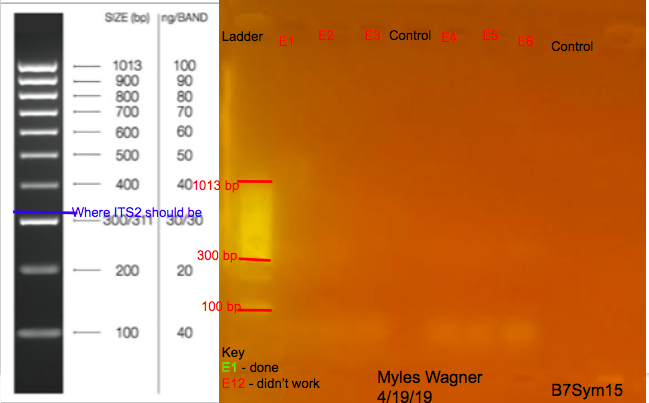
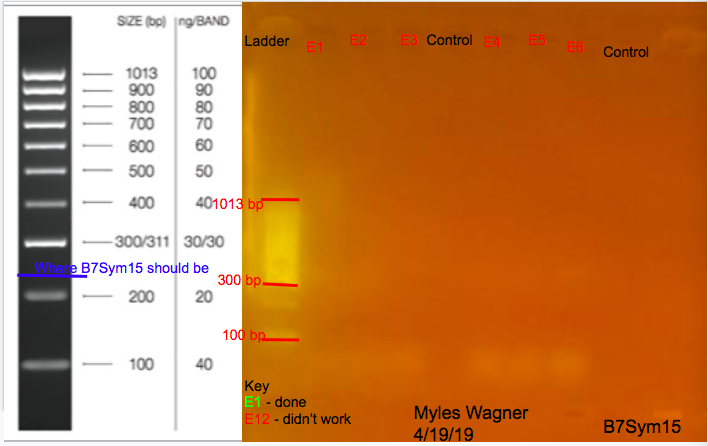
adding posts and images

diff --git a/_posts/2019-5-20-ITS2_PCR15.md b/_posts/2019-5-20-ITS2_PCR15.md
@@ -1,25 +1,24 @@
 ---
 layout: post
-title: "B7Sym15 PCR 4/26/19"
+title: "Starting Costal Fellowship 5/20/19"
 ---
 
-##   E1 E2 E3 E4 E5 E6 (#2)
+## Test ITS2 PCR on: P1 P3 P4 E34 E35 E36
 
 ### Procedure
 
-A new set of B7Sym15 Primers were created to test if this was the reason no DNA showed up in the last test.
+PCR was performed on samples that have not been used before, these samples are from aliquoites of DNA extractions becuase the original coral samples are not available
 
-Samples E1 E2 E3 E4 E5 E6 were used in this PCR (polimerase chain reaction) reaction 
+Samples P1 P3 P4 E34 E35 E36 were used in this PCR (polimerase chain reaction) reaction 
 
-First A Master Mix of water, 2x mytaq mix, B7Sym15 Primer Reverse (concentration: 10 micromolar), B7Sym15 Primer Forward (concentration: 10 micromolar)
-
+First A Master Mix of water, 2x mytaq mix, ITS2 Primer Reverse (concentration: 10 micromolar), ITS2 Primer Forward (concentration: 10 micromolar)
 
 |Component| Volume for 6 reactions(+5% error)|
 |---------|---------------------------|
 |Water| 59.85 micoleters|
 |2x mytaq mix| 78.75 micoleters|
-|B7Sym15 Primer Reverse (concentration: 10 micromolar)| 6.3 micoleters|
-|B7Sym15 Primer Forward (concentration: 10 micromolar)| 6.3 micoleters|
+|ITS2 Primer Reverse (concentration: 10 micromolar)| 6.3 micoleters|
+|ITS2 Primer Forward (concentration: 10 micromolar)| 6.3 micoleters|
 
 24 micoleters of this master mix was added to 6 tubes 
 For the 2 controls 12.5 micoleters water and 12.5 micoleters mytaq mix were added
@@ -29,13 +28,12 @@ and 1 microleter of water was added to two tubes for the controls
 
 The samples were then placed in the thermocycler set to 
 
-
 |Step|Temperature|Duration|cycles|
 |----|-------|--------|-------|
-|1|94°C|2:00|1|
-|2|94°C|0:15|35|
-|3|59°C|0:15|35|
-|4|72°C|0:15|35|
+|1|92°C|3:00|1|
+|2|92°C|0:30|35|
+|3|52°C|0:40|35|
+|4|72°C|0:30|35|
 |5|72°C|5:00|1|
 |6|10°C|hold|-|
 
@@ -45,30 +43,30 @@ these amplified DNA samples were then tested by making a gel
 
 to create the Gel the following steps were taken 
 
-1.5g agarose and 75ml 1X TAE buffer were mixed to make a 2% agarose 75ml gel mix 
+2g agarose and 100ml 1X TAE buffer were mixed to make a 2% agarose 100ml gel mix 
 the mix was microwaved and swirled until there were no flakes 
-then 1 microliters Gelgreen was added
+then 5 microliters Gelred was added
 
 the mix was left to cool for 5 minutes then poured into the gel mold
 the gel was left to harden for 30 minutes 
 
 once hardened enough Used TAE buffer was poured into the gel box to cover the mold
 
-5 microliter aliquots of DNA samples E1 E2 E3 E4 E5 E6 and the two controls were made 
+5 microliter aliquots of DNA samples P1 P3 P4 E34 E35 E36 and the two controls were made 
 1 microliter of 5x loading dye was added to each
 
 First the HyperLadder 100bp was added to the first well of the mold 
 then the DNA samples were each added to the wells in the following order 
 
-| Ladder | E1 | E2 | E3 | Control | E4 | E5 | E6 | Control |
+| Ladder | P1 | P3 | P4 | Control | E34 | E35 | E36 | Control |
 
 The voltage was set to 100V and run for 30 minutes
 
 
 This is the resulting Gel
 
-![04-26-19_B7Sym15_Gel]({{ site.baseurl }}/images/04-26-19_B7Sym15_Gel.png "4/26/19 B7Sym15 Gel")
+![05-20-19_ITS2_Gel]({{ site.baseurl }}/images/05-20-19_ITS2_Gel.png "5/20/19 ITS2 Gel")
 
 ###Notes
-There was not improved results after creating new primers
-The DNA samples could be the problem 
+The "P" samples came out very strong
+The "E" samples did not come out, this could cause problems since their is no original coral sample for these E's
